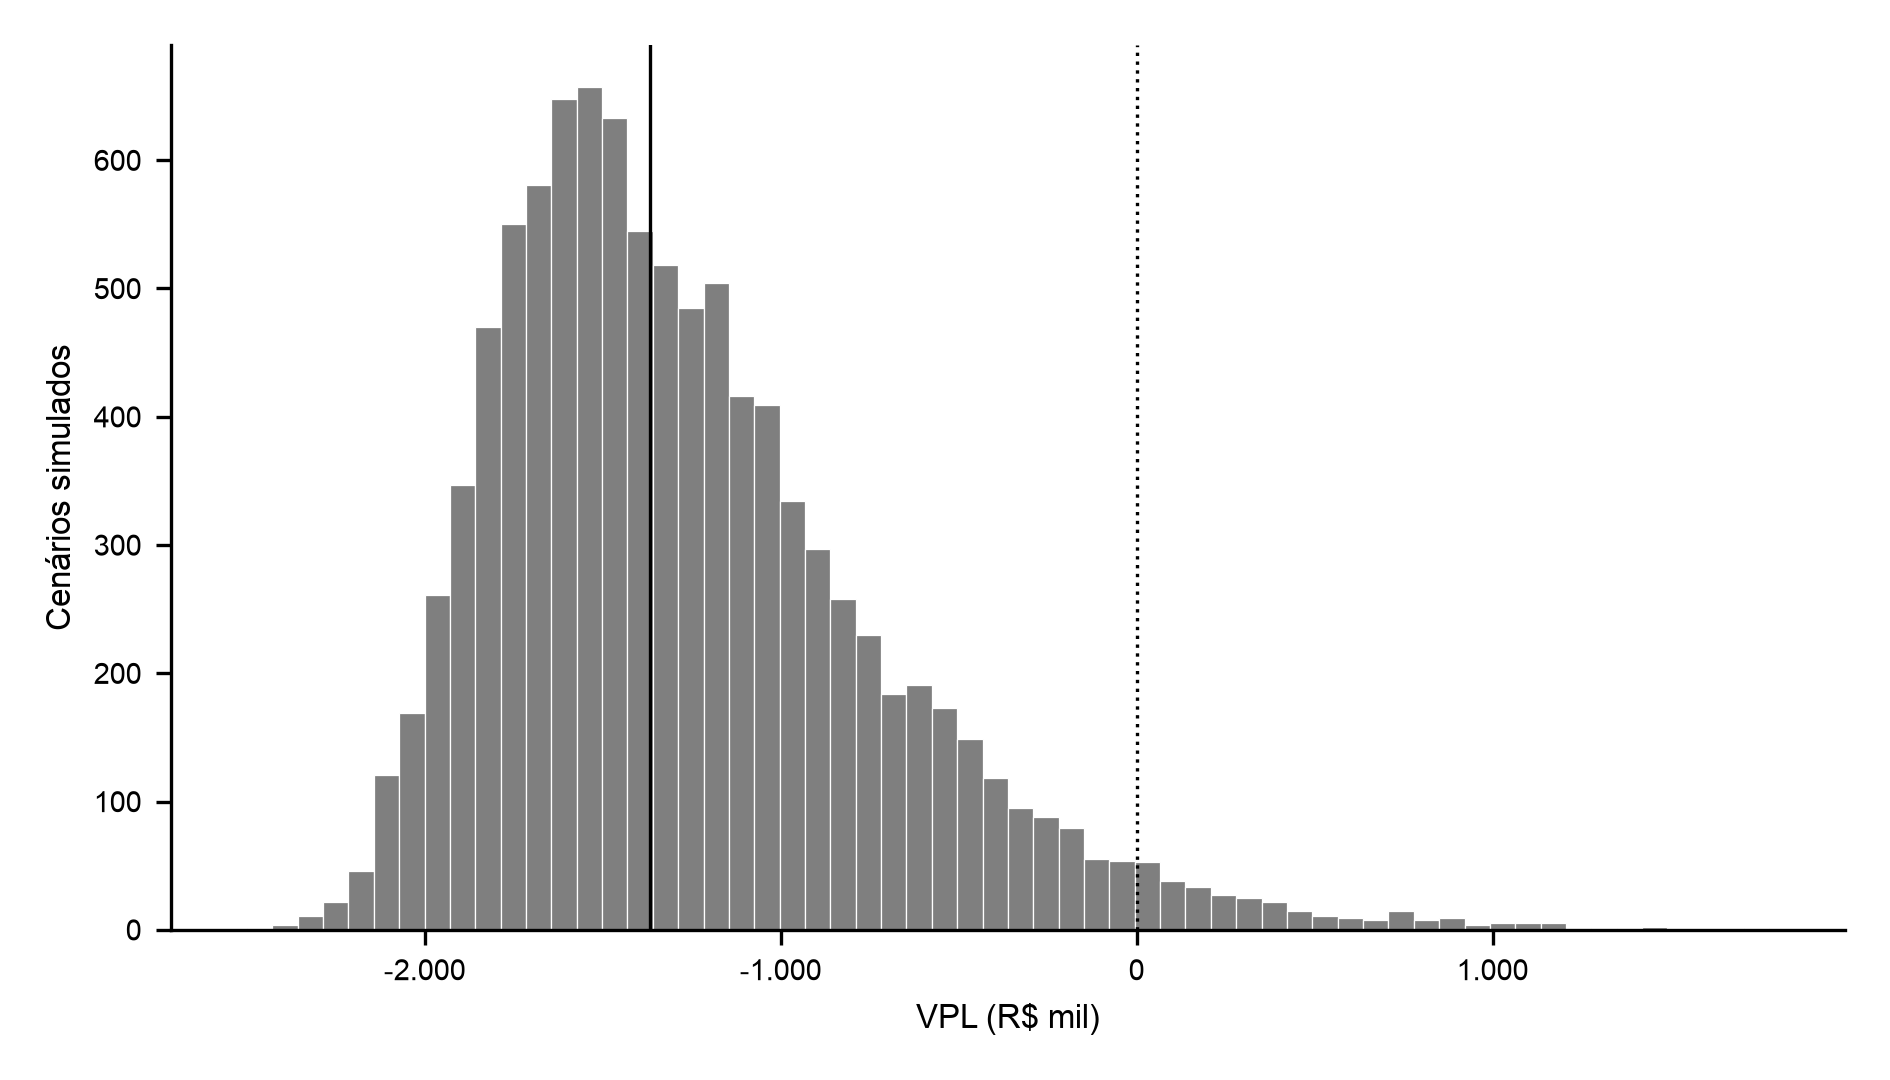
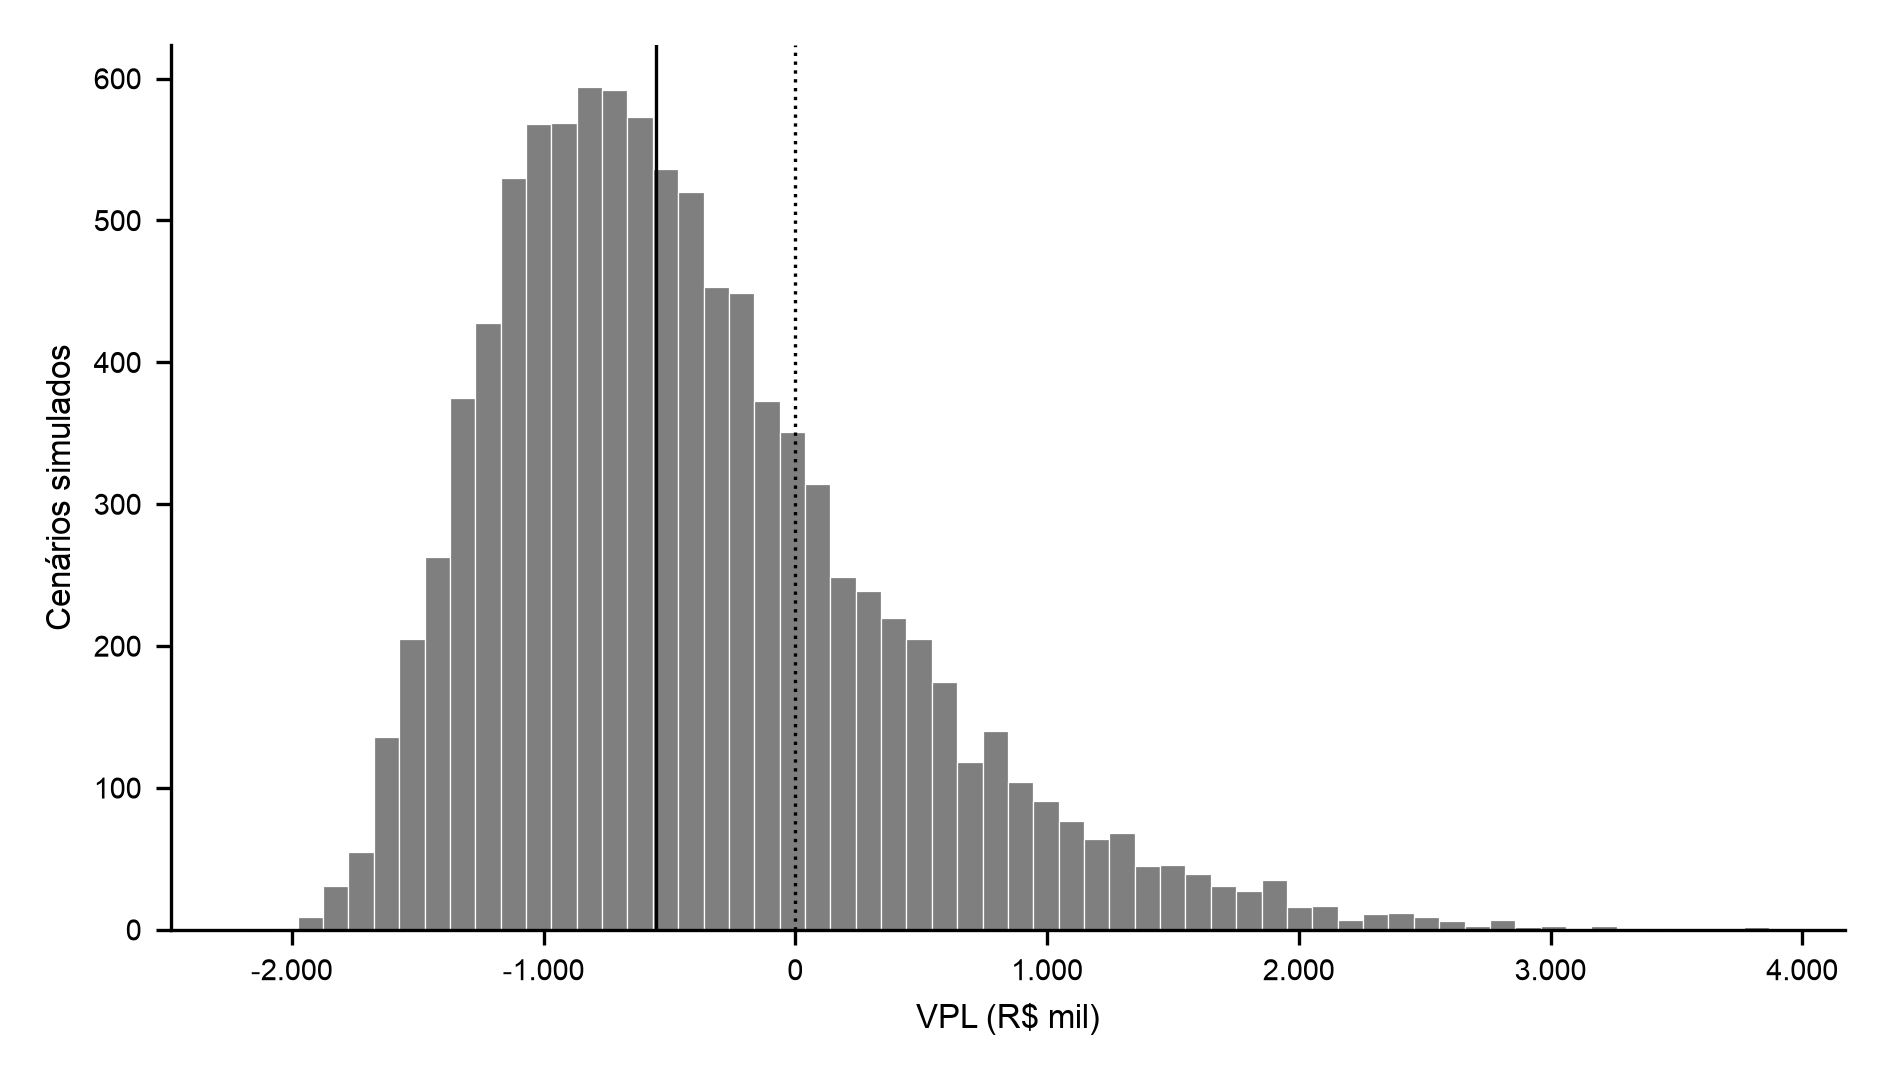
Cap. 9: giro otimista pelo horário ÷ permanência e provável na média; VPL provável de -R$ 638 mil
A faixa do giro estava fora de ordem (pessimista calibrado pela NFC-e
acima do provável e do otimista). Otimista = 10 h abertas ÷ 109 min de
permanência média das visitas; provável = média do pessimista e do
otimista. Monte Carlo: P(VPL > 0) de 25,2%.

diff --git a/_src/extras/gerar_modelo_financeiro.py b/_src/extras/gerar_modelo_financeiro.py
@@ -163,6 +163,11 @@ def premissas(f) -> list[dict]:
     piso = float(nf.loc["PA", "notas_emitidas"] / nf.loc["PA", "dias"])
     pess = dict(R02=2.5, R04=mo.mean() * (1 - x), R05=0.40, R16=3, R17=4)
     giro_pess = piso * 7 / (pess["R04"] * pess["R02"] * (pess["R16"] + pess["R17"] * pess["R05"]))
+    # giro otimista: horas abertas por dia (12h às 22h) ÷ permanência média das visitas;
+    # provável: média do pessimista e do otimista (decisão do autor, 31/10/2026)
+    HORAS_DIA = 10
+    giro_otim = HORAS_DIA * 60 / pm.mean()
+    giro_prov = (giro_pess + giro_otim) / 2
     a = f["acervo"]
     R = lambda *x: dict(zip(("id", "nome", "unidade", "pess", "prov", "otim", "fonte", "nivel", "just"), x))
     return [
@@ -208,9 +213,9 @@ def premissas(f) -> list[dict]:
         R("R14", "Horas abertas por semana, dia útil", "h", 40, 40, 40,
           "Horário da São Jogue (B1 e autor)", "N3",
           "Segunda a quinta das 12h às 22h."),
-        R("R15", "Giros por mesa por dia", "grupos por mesa ocupada", round(giro_pess, 2), 2, 3,
-          "Pessimista: NFC-e da São Jogue Paralela (B3); provável e otimista: decisão do autor", "N5 + N6",
-          f"Pessimista calibrado para o cenário atender {piso:.2f} clientes por dia, as NFC-e por dia da Paralela (17/10 a 30/10/2026): uma comanda e uma nota por pessoa, emitida só a pedido, então piso. Dois grupos no provável e três no otimista; conferido com a permanência e o horário (aba checagens)."),
+        R("R15", "Giros por mesa por dia", "grupos por mesa ocupada", round(giro_pess, 2), round(giro_prov, 2), round(giro_otim, 2),
+          "B3: NFC-e da São Jogue Paralela (pessimista) e permanência das 4 visitas (otimista)", "N5",
+          f"Pessimista calibrado para o cenário atender {piso:.2f} clientes por dia, as NFC-e por dia da Paralela (17/10 a 30/10/2026): uma comanda e uma nota por pessoa, emitida só a pedido, então piso. Otimista: {HORAS_DIA} h abertas por dia (12h às 22h) ÷ permanência média de {pm.mean():.0f} min. Provável: média dos dois."),
         R("R16", "Dias abertos por semana, fim de semana", "dias", 3, 3, 3,
           "Horário da São Jogue (B1 e autor)", "N3", "Sexta a domingo."),
         R("R17", "Dias abertos por semana, dia útil", "dias", 4, 4, 4,

diff --git a/AGORA.md b/AGORA.md
@@ -10,13 +10,13 @@ Atualizado em 31/10/2026 (21h48). Semana 8 do cronograma (31/10 a 06/11). Próxi
 - **TMin v5 (31/10):** abertura de texto em todos os capítulos, próclise, frases de ligação e referências numa lista única no fim (justificada, espaço 1,5); 54 páginas. TMax ainda sem essas mudanças nos caps. 2 e 3.
 - **Figuras (31/10):** seis gráficos das planilhas agregadas nos caps. 5, 6 e 9 (TMin v6, 58 páginas); gráficos do B2, do cardápio, do entorno e do B3 esperam dados atualizados.
 - **Formatação (31/10):** regras suplementares em `_instrucoes/1d_formatacao.md`, já no gerador; `.docx` e PDFs regerados (TMax v3 com 67 páginas, TMin v2 com 53). Instruções gerais divididas em `1_estrutura`, `1a_principios`, `1b_escrita`, `1c_versoes` e `1d_formatacao`.
-- **Viabilidade (modelo refeito às 21h48):** receita por mesas ocupadas × pessoas por mesa × giros, com taxa e cesta médias do B1; VPL de -R$ 2,88 mi / -R$ 1,63 mi / +R$ 2,79 mi; P(VPL > 0) de 2,9% no Monte Carlo. Giro pessimista (3,61) calibrado pela NFC-e da Paralela, acima do provável (2). Caps. 4, 9, 10 e 11 ainda com os números antigos. Dados de pedidos, ruído e jogos do B3 fora do trabalho (11.3).
+- **Viabilidade (modelo refeito, 22:04):** receita por mesas ocupadas × pessoas por mesa × giros (3,61 / 4,56 / 5,51), com taxa e cesta médias do B1; VPL de -R$ 2,88 mi / -R$ 638 mil / +R$ 6,64 mi (-R$ 377 mil com a equipe de 8); P(VPL > 0) de 25,2% no Monte Carlo. Caps. 4, 9, 10 e 11 ainda com os números antigos. Dados de pedidos, ruído e jogos do B3 fora do trabalho (11.3).
 - **Main unificada** (PR #22): branch do Mac, main antiga, app 2.5 e PRs #20 e #21. Mac na `main`; base do B1 regerada: 42 casas com cardápio; couvert de 12 casas a partir de prints (Instagram, site da BoardZ, cartaz do LudoCafé), e 22 dos 53 concorrentes cobram (mediana de R$ 20,00; R$ 25,00 no fim de semana); consumo por pessoa de R$ 50,25 (36 casas), cesta completa de R$ 73,75 (18). Números nos caps. 3, 5, 6, 9 e 11 e no Notion.
 - **B2:** falta a recodificação cega do autor, no banco "2R - Recodificação cega" do Notion (139 linhas; não abrir a relação "Avaliação original" nem o gabarito antes de terminar).
 
 ## Próximos 3 passos
 
-1. Decidir o giro do provável e do otimista e o preço da entrada (6.3 × B1) e reescrever os números dos caps. 4, 9, 10 e 11 (pendências).
+1. Decidir o preço da entrada (6.3 × B1) e reescrever os números dos caps. 4, 9, 10 e 11 (pendências).
 2. Decidir a equipe (card no thread; pendências, item 5) e levar a escolha ao modelo e aos caps. 4, 7, 9, 10 e 11.
 3. Fazer a recodificação cega; depois, refazer o 5.2 e escrever 6.1, 6.2 e 6.5.
 - Depois: cortar o cap. 10 até o teto (melhorias C17), escrever o 6.6 e preencher 4.2 e 4.3.

diff --git a/textos/planejamento/status_capitulos.md b/textos/planejamento/status_capitulos.md
@@ -12,7 +12,7 @@ Atualizado em 31/10/2026. Prazos do [cronograma](cronograma_luderia.md); tetos d
 | 6 Plano de marketing | Rascunho parcial | ~3/8 | 16/10 (6.3, 6.4); 30/10 (demais) | B1, B2, B4 | 6.3 e 6.4 em 31/10 (Pituba indicada); Tabela 6.1 com a taxa de 22 concorrentes (prints do Instagram, site da BoardZ e cartaz do LudoCafé, 31/10). Faltam 6.1, 6.2 e 6.5 (Bardin) e 6.6 (calibração da demanda); cotar pontos na Pituba |
 | 7 Plano operacional | Rascunho | ~3,9/4 | 23/10 (rascunho em 31/10) | B3; caps. 6 e 8 | Equipe de 8 pelo fluxo, diferente das 12 do modelo (D33); croqui e fluxograma a desenhar |
 | 8 Aspectos jurídicos | Rascunho | 3/3 | 09/10 (rascunho em 31/10) | B4 (Simples, CNAE, CNPJ de referência) | Conferir as normas estaduais e municipais e as alíquotas de ICMS e ISS marcadas `[AV]` |
-| 9 Plano financeiro | Rascunho | ~9,3/12 | 23/10 (rascunho em 31/10) | B1 a B4; caps. 7 e 8 | Modelo refeito em 31/10 (21h48): mesas ocupadas × giros, taxa e cesta médias do B1, Monte Carlo; VPL provável −R$ 1,63 mi. Texto ainda com os números antigos (melhorias D36); giros e preço a decidir. Faltam cotações (N6), ocupação de dia útil, enquadramento do Simples (cap. 8), apêndice do registro e triangulação com o cap. 6 TMin v1 em 31/10: 7 páginas. |
+| 9 Plano financeiro | Rascunho | ~9,3/12 | 23/10 (rascunho em 31/10) | B1 a B4; caps. 7 e 8 | Modelo refeito em 31/10 (21h48): mesas ocupadas × giros, taxa e cesta médias do B1, Monte Carlo; VPL provável −R$ 638 mil. Texto ainda com os números antigos (melhorias D36); preço a decidir. Faltam cotações (N6), ocupação de dia útil, enquadramento do Simples (cap. 8), apêndice do registro e triangulação com o cap. 6 TMin v1 em 31/10: 7 páginas. |
 | 10 Riscos | Rascunho | ~6/4 | 30/10 (rascunho em 31/10) | Cap. 9 | Acima do teto (melhorias C17); equipe a decidir (D33) |
 | 11 Considerações finais | Rascunho | ~2,5/2 | 06/11 (rascunho em 31/10) | Todos | Objetivos (ii) e (iii) aguardam a recodificação cega e o 6.6; um pouco acima do teto |
 

diff --git a/docs/registro-de-alteracoes.md b/docs/registro-de-alteracoes.md
@@ -1941,3 +1941,9 @@ Formato de uma divergência encontrada entre documentos (data em que foi encontr
 **Antes**: R$ 23,91 de A&B por pessoa pelas NFC-e dos observadores (6.3); de 0,5 a 1,7 pedidos por grupo (7.3); pedidos registrados em parte das visitas, como descrição (TMax 3.3.3); NFC-e e B3 como fonte do ticket (matriz); 11.3 dizia só que a nota sai a pedido.
 **Depois**: 6.3 usa a taxa e a cesta médias do B1 (R$ 44,09 a R$ 69,50 por pessoa; R$ 158,72 a R$ 250,20 por grupo; 35% a 56% do gasto mensal da POF); 7.3 sem os pedidos; TMax 3.3.3 diz que o registro de pedidos, ruído e jogos foi tentado e abandonado; 11.3 ganha um parágrafo sobre a inviabilidade dessa coleta (mesas distantes demais e processamento) e explicita que a São Jogue não emite NFC-e para todos os clientes, quase ninguém pede, e as notas ficam abaixo do número real de clientes.
 **Justificativa**: pedido do autor: a coleta de pedidos, ruído e jogos por mesa foi falha e sai do trabalho.
+
+### 22:04
+**Objeto**: `_src/extras/gerar_modelo_financeiro.py` (R15, giros por mesa por dia); `textos/capitulos/9_plano_financeiro_modelo.xlsx`; figuras `9_tornado.png` e `9_monte_carlo.png`
+**Antes**: giros de 3,61 (pessimista, NFC-e), 2 (provável) e 3 (otimista): pessimista acima dos outros dois. VPL de -R$ 2,88 mi / -R$ 1,63 mi / +R$ 2,79 mi; P(VPL > 0) de 2,9%.
+**Depois**: otimista de 5,51 (10 h abertas, das 12h às 22h, ÷ permanência média de 109 min das 4 visitas); provável de 4,56 (média do pessimista e do otimista); pessimista mantido em 3,61. Provável com 51,2 clientes por dia, acima dos dois pisos da NFC-e. VPL de -R$ 2,88 mi / -R$ 638 mil / +R$ 6,64 mi; -R$ 377 mil com a equipe de 8 do cap. 7; P(VPL > 0) de 25,2%.
+**Justificativa**: pedido do autor, para pôr a faixa do giro em ordem.

diff --git a/docs/melhorias-texto.md b/docs/melhorias-texto.md
@@ -12,7 +12,7 @@ Formato de um item: **ID — título curto.** Onde (cap. e seção). O que diver
 
 ## Grave
 
-**D36 — Números do cap. 9 × modelo novo (31/10/2026).** Caps. 4 (sumário), 9 (9.1 a 9.7), 10 (10.2, 10.3, 10.5) e 11 (11.1, 11.2) × `9_plano_financeiro_modelo.xlsx`. Os textos ainda trazem a árvore antiga (ocupação × horas ÷ permanência), o A&B de R$ 24,00 das NFC-e, a taxa de R$ 28,00 e o VPL provável de -R$ 479 mil; o modelo passou a mesas ocupadas × giros, taxa e cesta médias do B1, VPL provável de -R$ 1,63 mi e Monte Carlo. Reescrever depois das decisões de giro e preço (pendências).
+**D36 — Números do cap. 9 × modelo novo (31/10/2026).** Caps. 4 (sumário), 9 (9.1 a 9.7), 10 (10.2, 10.3, 10.5) e 11 (11.1, 11.2) × `9_plano_financeiro_modelo.xlsx`. Os textos ainda trazem a árvore antiga (ocupação × horas ÷ permanência), o A&B de R$ 24,00 das NFC-e, a taxa de R$ 28,00 e o VPL provável de -R$ 479 mil; o modelo passou a mesas ocupadas × giros, taxa e cesta médias do B1, VPL provável de -R$ 638 mil e Monte Carlo. Reescrever depois da decisão do preço (pendências).
 
 **D37 — Preço da entrada no cap. 6.3 × cap. 9 (31/10/2026).** Cap. 6.3 (R$ 28,00 e R$ 22,00, São Jogue) × modelo do cap. 9 (R$ 18,68, média do B1). O cap. 6 prevalece; o 6.3 também ainda diz que os valores entram como R06, R07 e R08, IDs que mudaram de sentido.
 

diff --git a/docs/pendencias.md b/docs/pendencias.md
@@ -4,7 +4,6 @@ Tudo o que está em aberto, num só lugar. Quando um item for resolvido, ele sai
 
 ## Decisões a tomar
 
-- **Giros do provável e do otimista abaixo do pessimista (31/10/2026).** O giro pessimista calibrado pela NFC-e (3,61) ficou acima do provável (2) e do otimista (3), e o provável atende 22,5 clientes por dia, abaixo do piso da Bela Vista (30,5 NFC-e por dia). O tornado mostra o giro pessimista melhorando o VPL. Decidir se o provável e o otimista sobem (ex.: piso da Bela Vista no provável e horas ÷ permanência no otimista).
 - **Preço da entrada: cap. 6.3 × modelo (31/10/2026).** O 6.3 adota os preços da São Jogue (R$ 28,00 e R$ 22,00); o modelo usa a taxa média do B1 (R$ 18,68). O cap. 6 prevalece: decidir o preço e alinhar.
 - **Caps. 4, 9, 10 e 11 com os números do modelo anterior (31/10/2026).** Reescrever depois das duas decisões acima; o Monte Carlo vai para apêndice, com a probabilidade de VPL > 0 no corpo.
 - **Referências que faltam na lista única (31/10/2026).** Os caps. 6 a 11 citam fontes sem entrada em nenhuma lista (CONCLA, 2026; Receita Federal, 2026; leis, LCs e a RDC citadas pelo número; Novo CAGED; FipeZap no cap. 7). Conferir e incluir antes da versão final. O cap. 10 cita o caminho interno `_instrucoes/8_financeiro.md` no texto.

diff --git a/docs/decisoes.md b/docs/decisoes.md
@@ -4,6 +4,7 @@ Uma linha por decisão já tomada sobre o TCC, da mais recente para a mais antig
 
 | Data | Decisão | Detalhe em |
 |---|---|---|
+| 31/10/2026 | Giro por mesa: pessimista pelo piso da NFC-e da Paralela (3,61); otimista = 10 h abertas ÷ permanência média das visitas (5,51); provável = média dos dois (4,56) | `docs/registro-de-alteracoes.md` (31/10/2026, 22:04) |
 | 31/10/2026 | Receita do modelo: mesas ocupadas × pessoas por mesa × giros por dia; receita por pessoa = taxa de entrada média + cesta de consumo média do B1 ÷ pessoas por cesta (3, 2 e 1 nos cenários pessimista, provável e otimista); giro pessimista calibrado pela NFC-e da Paralela, com uma nota por cliente; Monte Carlo com 10 mil cenários | `docs/registro-de-alteracoes.md` (31/10/2026, 21:48) |
 | 31/10/2026 | Dados de pedidos, ruído e jogos por mesa da contagem direta (B3) saem do trabalho; a tentativa e a inviabilidade ficam em 11.3 | `textos/capitulos/_md/11_consideracoes_finais.md` |
 | 31/10/2026 | Referências numa lista única no fim do trabalho, justificadas e com espaçamento 1,5 (prevalece sobre a NBR 6023); todo capítulo abre com texto antes da primeira seção; próclise sempre que aceitável | `_instrucoes/1d_formatacao.md` |
